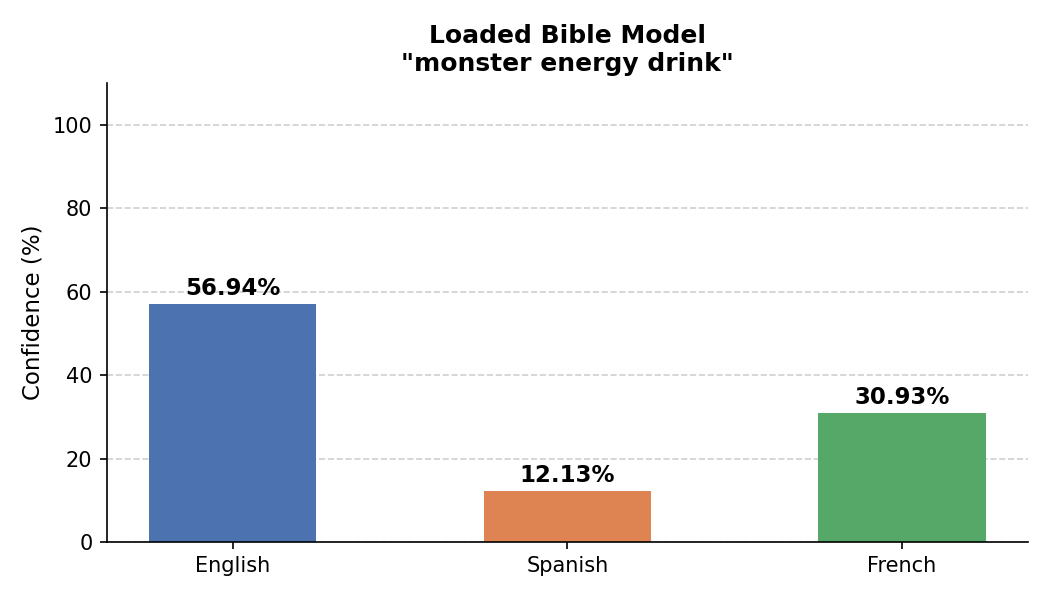
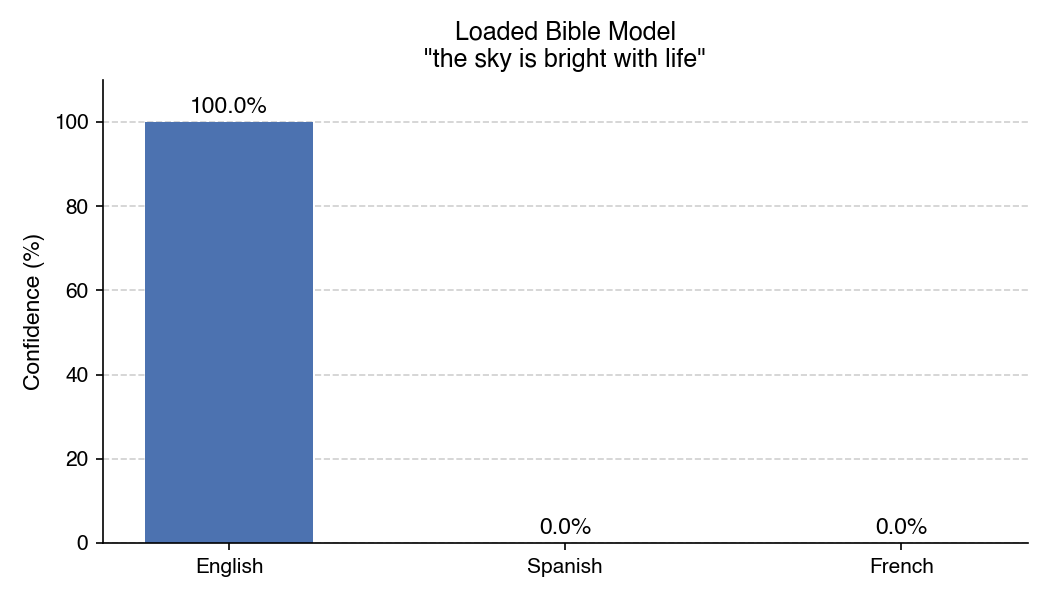
final

diff --git a/execute.py b/execute.py
@@ -1,17 +1,7 @@
 #!/usr/bin/env python3
 import os
-import torch
-from torch.utils.data import DataLoader
-
-# Import your modularized code!
-# (Assuming your files are named data.py, network.py, and train.py)
 from data import chunk, encode
-from network import LanguageDataset, LanguageClassifier
-from train import train_model, evaluate_confidence
 
-# ==========================================
-# Helper: Build One Master Dictionary
-# ==========================================
 def build_global_vocab(base_dir, languages, file_types):
     """Scans every file in the dataset to create one unified Hash Map."""
     global_vocab = {}
@@ -35,9 +25,6 @@ def build_global_vocab(base_dir, languages, file_types):
                 
     return global_vocab
 
-# ==========================================
-# Helper: Load and Label Chunks
-# ==========================================
 def load_and_label_data(base_dir, file_type, languages, label_map, chunk_size=20):
     """Loads chunks for a specific file type (e.g., 'quote') across all languages."""
     all_chunks = []
@@ -46,67 +33,12 @@ def load_and_label_data(base_dir, file_type, languages, label_map, chunk_size=20
     for lang in languages:
         path = os.path.join(base_dir, lang, f"{file_type}.txt")
         if os.path.exists(path):
-            # Call your chunking function from data.py
             lang_chunks = chunk(path, chunk_size)
             
-            # Add these chunks to our master list
             all_chunks.extend(lang_chunks)
             
-            # Add the corresponding label (e.g., 0, 1, or 2) for EVERY chunk we just added
+            # Add the corresponding label (e.g., 0, 1, or 2) for each chunk added
             label_id = label_map[lang]
             all_labels.extend([label_id] * len(lang_chunks))
             
     return all_chunks, all_labels
-
-# ==========================================
-# MAIN EXECUTION
-# ==========================================
-if __name__ == "__main__":
-    # 1. Configuration
-    BASE_DIR = "./files"
-    LANGUAGES = ["english", "spanish", "french"]
-    LABEL_MAP = {"english": 0, "spanish": 1, "french": 2}
-    CHUNK_SIZE = 20 # Words per chunk
-
-    print(">>> 1. Building Global Vocabulary...")
-    # This reads all bibles and all quotes into one dictionary
-    vocab = build_global_vocab(BASE_DIR, LANGUAGES, ["bible", "quote"])
-    vocab_size = len(vocab)
-    print(f"Global Vocabulary Size: {vocab_size} unique words.")
-
-    print("\n>>> 2. Chunking Data...")
-    # Load Bible data (Classic)
-    bible_chunks, bible_labels = load_and_label_data(BASE_DIR, "bible", LANGUAGES, LABEL_MAP, CHUNK_SIZE)
-    # Load Quote data (Modern)
-    quote_chunks, quote_labels = load_and_label_data(BASE_DIR, "quote", LANGUAGES, LABEL_MAP, CHUNK_SIZE)
-    
-    print(f"Loaded {len(bible_chunks)} Bible chunks.")
-    print(f"Loaded {len(quote_chunks)} Quote chunks.")
-
-    print("\n>>> 3. Setting up PyTorch Datasets & DataLoaders...")
-    bible_dataset = LanguageDataset(bible_chunks, bible_labels, vocab)
-    quote_dataset = LanguageDataset(quote_chunks, quote_labels, vocab)
-    
-    # Batch size dictates how many chunks the AI reviews before updating its weights
-    bible_loader = DataLoader(bible_dataset, batch_size=32, shuffle=True)
-    quote_loader = DataLoader(quote_dataset, batch_size=32, shuffle=True)
-
-    print("\n>>> 4. Initializing Neural Networks...")
-    model_classic = LanguageClassifier(vocab_size=vocab_size, num_classes=3)
-    model_modern = LanguageClassifier(vocab_size=vocab_size, num_classes=3)
-
-    print("\n>>> 5. Training Models...")
-    print("--- Training Bible/Classic Model ---")
-    train_model(model_classic, bible_loader, epochs=10, save_prefix="bible") # Start with 10 epochs to test speed
-    
-    print("\n--- Training Quote/Modern Model ---")
-    train_model(model_modern, quote_loader, epochs=100, save_prefix="quote")
-
-    print("\n>>> 6. THE CONFIDENCE SHOWDOWN")
-    # A test sentence combining archaic phrasing with modern concepts
-    test_sentence = "thou shalt look before you leap" 
-    print(f"Test Sentence: '{test_sentence}'")
-    
-    # We pass 'vocab' so evaluate_confidence uses the same encoding map!
-    evaluate_confidence("Model A (Trained on Bibles)", model_classic, test_sentence, vocab, ["English", "Spanish", "French"])
-    evaluate_confidence("Model B (Trained on Quotes)", model_modern, test_sentence, vocab, ["English", "Spanish", "French"])

diff --git a/network.py b/network.py
@@ -5,23 +5,14 @@ from torch.utils.data import Dataset
 
 import data
 
-# ==========================================
-# Step 5: The PyTorch Dataset Class
-# ==========================================
 class LanguageDataset(Dataset):
     def __init__(self, data_chunks, labels, vocab):
-        """
-        Args:
-            data_chunks (list of str): The list of text chunks.
-            labels (list of int): The language labels (e.g., 0 for EN, 1 for ES, 2 for FR).
-            vocab (dict): Your vocabulary hash map to encode the text.
-        """
-        self.data_chunks = data_chunks
-        self.labels = labels
-        self.vocab = vocab
+
+        self.data_chunks = data_chunks #text chunks
+        self.labels = labels #language label i.e. english spanish french (int)
+        self.vocab = vocab #hash table of encoded vocabulary
 
     def __len__(self):
-        """Returns the total number of samples in the dataset."""
         return len(self.data_chunks)
 
     def __getitem__(self, idx):
@@ -36,58 +27,21 @@ class LanguageDataset(Dataset):
         label_tensor = torch.tensor(label, dtype=torch.long)
         
         return tensor, label_tensor
-
-# ==========================================
-# Step 6: Designing the Neural Network
-# ==========================================
+    
+#neural network design:
 class LanguageClassifier(nn.Module):
     def __init__(self, vocab_size, num_classes=3):
         super(LanguageClassifier, self).__init__()
-        
-        # Input layer: Takes in the Bag of Words tensor (size of vocab)
-        # Hidden layer: Arbitrary size (e.g., 128 neurons), you can experiment with this!
-        self.layer1 = nn.Linear(vocab_size, 128)
+
+        self.layer1 = nn.Linear(vocab_size, 128) #hidden layer
         
         # Activation function to introduce non-linearity (helps the network learn complex patterns)
         self.relu = nn.ReLU()
         
-        # Output layer: Takes the 128 hidden neurons and outputs exactly 3 numbers
-        self.output_layer = nn.Linear(128, num_classes)
+        self.output_layer = nn.Linear(128, num_classes) #output layer, outputs 3 numbers
 
     def forward(self, x):
-        """Defines how data passes through the network."""
         x = self.layer1(x)
         x = self.relu(x)
         logits = self.output_layer(x) # Raw, unnormalized scores
         return logits
-
-# ==========================================
-# Step 7: Understanding Softmax Example
-# ==========================================
-def test_softmax_confidence():
-    print("--- Testing Softmax Confidence ---")
-    
-    # Imagine our model output these raw numbers (logits) for a specific sentence:
-    # Index 0: English, Index 1: Spanish, Index 2: French
-    raw_outputs = torch.tensor([[1.5, -0.2, 5.3]]) 
-    print(f"Raw Logits: {raw_outputs.tolist()[0]}")
-
-    # Apply Softmax to convert to percentages (confidence) that sum to 1.0
-    # dim=1 means we calculate it across the columns for this specific sample
-    softmax = nn.Softmax(dim=1)
-    confidences = softmax(raw_outputs)
-    
-    # Extract the percentages
-    en_conf = confidences[0][0].item() * 100
-    es_conf = confidences[0][1].item() * 100
-    fr_conf = confidences[0][2].item() * 100
-    
-    print(f"\nConfidences:")
-    print(f"English: {en_conf:.2f}%")
-    print(f"Spanish: {es_conf:.2f}%")
-    print(f"French:  {fr_conf:.2f}%")
-    print("\nNotice how the highest raw logit (5.3) becomes a highly confident percentage!")
-
-if __name__ == "__main__":
-    # Run the file to see Softmax in action!
-    test_softmax_confidence()

diff --git a/train.py b/train.py
@@ -8,23 +8,21 @@ import time
 
 from data import encode
 
-def train_model(model, dataloader, epochs=50, save_prefix=None):
-    """
-    Step 8 & 9: The Training Loop
-    """
+#training loop (AI generated)
+def train_model(model, dataloader, epochs=50, save_prefix=None): #default of 50 epochs
     # CrossEntropyLoss automatically applies Softmax internally during training!
     criterion = nn.CrossEntropyLoss()
     # Adam optimizer acts as the "learner" updating the weights
     optimizer = optim.Adam(model.parameters(), lr=0.01)
 
-    # Create a directory for our saved models
+    # saved models
     if save_prefix and not os.path.exists("saved_models"):
         os.makedirs("saved_models")
 
     model.train() # Set model to training mode
     for epoch in range(epochs):
         total_loss = 0
-        start_time = time.perf_counter()
+        start_time = time.perf_counter() #timing
         for batch_tensors, batch_labels in dataloader:
             # 1. Clear old gradients
             optimizer.zero_grad()
@@ -54,24 +52,24 @@ def train_model(model, dataloader, epochs=50, save_prefix=None):
             torch.save(model.state_dict(), save_path)
 
 import matplotlib.pyplot as plt
+
+plt.rcParams['font.family'] = 'sans-serif'
+plt.rcParams['font.sans-serif'] = 'Helvetica'
+
 import matplotlib.patches as mpatches
 import numpy as np
 def evaluate_confidence(model_name, model, test_sentence, vocab, languages):
-    """
-    Step 10: The Confidence Showdown
-    """
-
     confidenceList = []
-    model.eval() # Set model to evaluation mode (turns off training behaviors)
+    model.eval() # evaluation mode (turns off training behaviors)
     
-    # 1. Encode the raw text
+    #input
     input_tensor = encode(test_sentence, vocab).unsqueeze(0) # unsqueeze adds a "batch" dimension
     
-    # 2. Get raw outputs (logits)
+    #oputput logits
     with torch.no_grad(): # Don't track gradients for memory efficiency
         logits = model(input_tensor)
         
-    # 3. Convert logits to percentages using Softmax
+    #convert logits w/ confidence calc
     softmax = nn.Softmax(dim=1)
     confidences = softmax(logits)[0] # Extract the first (and only) item in the batch
     
@@ -80,11 +78,11 @@ def evaluate_confidence(model_name, model, test_sentence, vocab, languages):
         confidence = round(confidences[i].item() * 100.00, 2)
         confidenceList.append(confidence)
         print(f"{lang}: {confidence}%")
-        # print(f"{lang}: {confidences[i].item() * 100:.2f}%")
 
     # 4. Bar plot
     colors = ["#4C72B0", "#DD8452", "#55A868"]
     fig, ax = plt.subplots(figsize=(7, 4))
+    
 
     bars = ax.bar(languages, confidenceList, color=colors[:len(languages)], width=0.5, zorder=2)
 

diff --git a/data.py b/data.py
@@ -1,9 +1,8 @@
 #!/usr/bin/env python3
 
-#parse.py
+#data.py
 #parse and chunk texts
 
-import itertools
 def chunk(ifp: str, chunk_size: int) -> list[str]:
     chunks = []
     try:
@@ -41,23 +40,10 @@ from typing import Dict, List
 import torch
 
 def encode(text: str, vocab: Dict[str, int]) -> torch.Tensor:
-    """
-    Converts a text chunk into a binary PyTorch tensor based on vocabulary presence.
-    
-    Args:
-        text: The input string.
-        vocab: Dictionary mapping words (str) to indices (int).
-        
-    Returns:
-        A torch.Tensor of size (len(vocab),) with 1s for present words, 0s otherwise.
-    """
-    # 1. Tokenization (basic lowercase, space-split)
     tokens = text.lower().split()
-    
-    # 2. Initialize zero tensor of size V
+        # Initialize zero tensor of size V
     tensor = torch.zeros(len(vocab), dtype=torch.float32)
-    
-    # 3. Fill 1s for present tokens
+        # Fill 1s for present tokens
     for token in tokens:
         if token in vocab:
             index = vocab[token]
@@ -65,6 +51,7 @@ def encode(text: str, vocab: Dict[str, int]) -> torch.Tensor:
             
     return tensor
 
+#for debugging
 import argparse
 if __name__ == "__main__":
     parser = argparse.ArgumentParser(description="encode from file path")

diff --git a/README.md b/README.md
@@ -2,12 +2,48 @@
 Data structures mini project/final.
 
 1. Project Overview: Describe your project in 1–2 sentences.
+    - This project aims to develop several neural networks for language identification of French, English, and Spanish and compares the confidence of results depending on input text, shown in two generated graphs.
+
 2. Relevant Data Structure Concept: Which data structure concept(s) were most relevant to this project?
+    - Hash tables in the form of the Python dictionary are at the heart of this project. Lists (with linked lists/arrays as the underlying ADT in Python) were also used, particularly in the parsing and chunking of training texts. 
     2. (1) Application of DS: How did you apply that concept in your implementation?
+        - I used a dictionary in my find_unique function (implemented to verify that the parsing function was working and that my underlying logic was correct) as well as mainly in my build_global_vocab function. In both cases, the hash table implementation of Python's dictionary data type made the ordering of unique words incredibly fast with O(1) lookup and insertion thanks to the underlying hash function's efficiency. I learned that simply using this dictionary would be most efficient through the AVL HW09 activity we previously completed that showed the speed of the dictionary in comparison to other data structures.
+        - For lists, as previously stated, the main usecase came in the data mining part of the project.
+
 3. Project Workflow: Explain the end-to-end workflow (e.g., expected inputs, core processing logic, and expected outputs).
+    - This project can be divided into three main parts:
+        - Data mining
+            - The scraper.py file is meant to only be run once to scrape data from pdfs of the bible. Two versions were used that scanned different parts of distinct pdfs to get the necessary information from each pdf bible version
+                - Text cleaning was also performed on the data to remove punctuation and digits/only keep relevant characters. I used **AI** to help with the function for the french bible parsing as the parsing was made complicated by the pdf used.
+            - The data.py file chunks a given file input into chunks of a specified length, the find_unique arranges the unique words, while encode tokenizes a given string based on a vocabulary dictionary
+            - in execute.py, build_global_vocab builds on find_unique in data.py and does a similar process for all file data
+        - Model training
+            - network.py sets up two classes that link/prepare the dataset generated by the previous two files with/for the training to come. This is done through initializing initial tensors per dataset and initializing the neural neetwork's input, hidden, and output layers as well sa forwarding logic
+            - train.py was generated with the help of **AI** and trains the model with pytorch, calculating loss per epoch and ultimately outputting the results (including time elapsed per epoch) in a print statement while saving the .pth models in a folder so that this process only needs to happen once.
+        - Execution
+            - the evaluate_confidence function is at the heart of the program and uses softmax to evaluate the accuracy of results
+                - the confidence results are then outputted on graphs using matplotlib
+            - this is all called in the main file that can be ran with ./main 
+                - prompts user for text to be evaluated
+                - fetches the necessary training data to use the most updated models to call the evaluate_confidence function
+                - evaluate_confidence takes care of this
+
+
 4. Performance: What is the average running time of your project (time complexity and/or observed runtime)?
+    - The O(1) constant time complexity for dictionary queries/insertions makes the underlying data structures manageable. However, because of the use of tensors, the actual runtime for each epoch during training was around 40 seconds each time for the bible training and a few milliseconds for the simple quotes. If the number of neurons in the network was lowered, the result might be less accurate, but the runtime for the training would likely decrease.
+
 5. Challenges: What challenges did you encounter during development, and how did you address them?
+    - This project was incredibly new to me, and implementing the neural network was challengeing. Accordingly, I used an ongoing Gemini chat to debug my code and generate some effective solutions to my problems. Additionally, scraping the data at the beginning of the project was challenging, and I had to do a lot of customization for the pdfs I was workign with as well as the regex expressions for cleaning
+
 6. Improvements: If you could redo the project, what changes would you make and why?
+    - I would probably start on the project a little earlier, and I might look into adding more languages or using a voice-to-text api to make the program more polished/interactive.
+    - I might also make it more of a research-study like project and evaluate many different sources of text to see how the evaluations varied
+
 7. Learning: What new concept(s) or skill(s) did you learn while completing the project?
+    - I learned how to use pytorch neural networks, pypdf/pdfplumber and brushed up on my plotting skills. Moreover, I learned lots about what actually goes into machine learning and NLP, from chunking and tokenization to predictions. Additionally, this project was a great demonstration of the power of hash tables. 
+
 8. Real-World Relevance: What are the potential use cases of your project, and where could it be applied in real-world scenarios?
+    - Translation tools often have "detect language" features that would follow the the pipeline I implemented in this project. These kinds of tools help improve the overall user experience for translation tools as a user can specify less and still get a solid result.
+    
 9. Use of AI Tools: How did you use AI tools during the project (e.g., brainstorming, debugging, code review, documentation)?
+    - I had an ongoing Gemini collaborative chat that I used to first brainstorm/chunk out the project. With each feature that I implemented, I often went back to the chat to debug and change the project direction as needed. I also heavily relied on Gemini to explain some of the difficult parsing concepts at the beginning of the project, particularly with regex.
